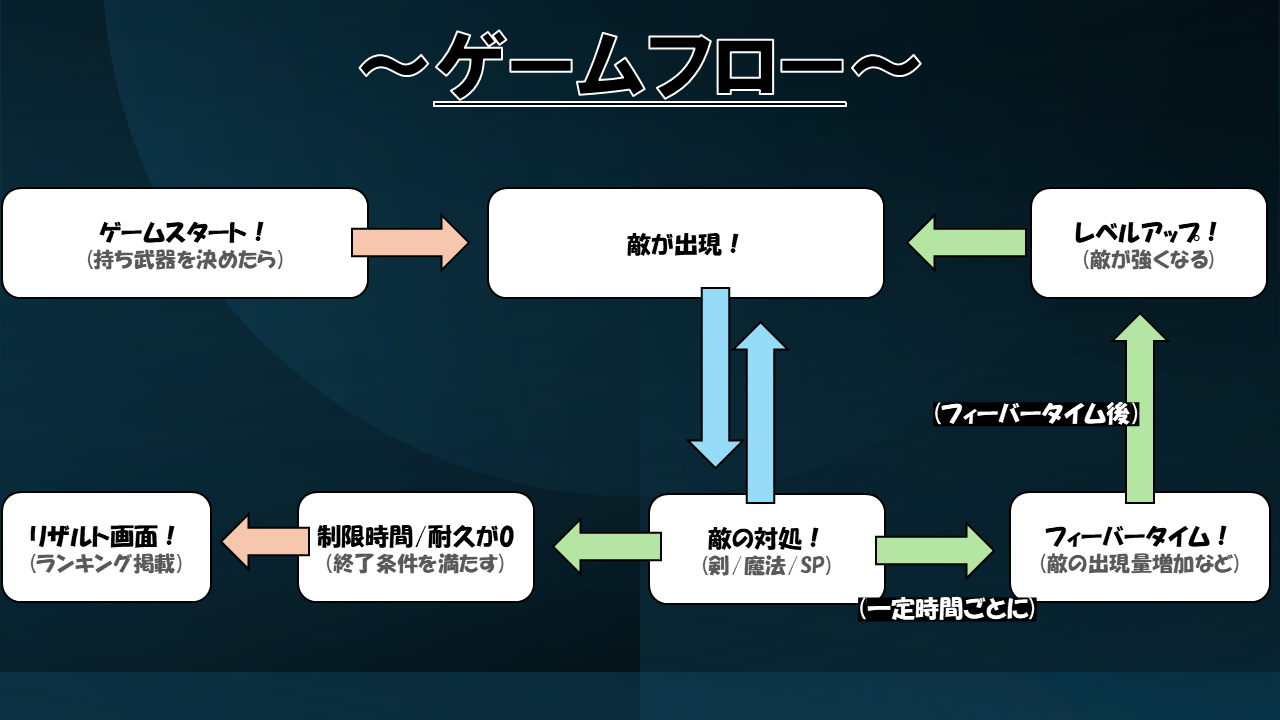
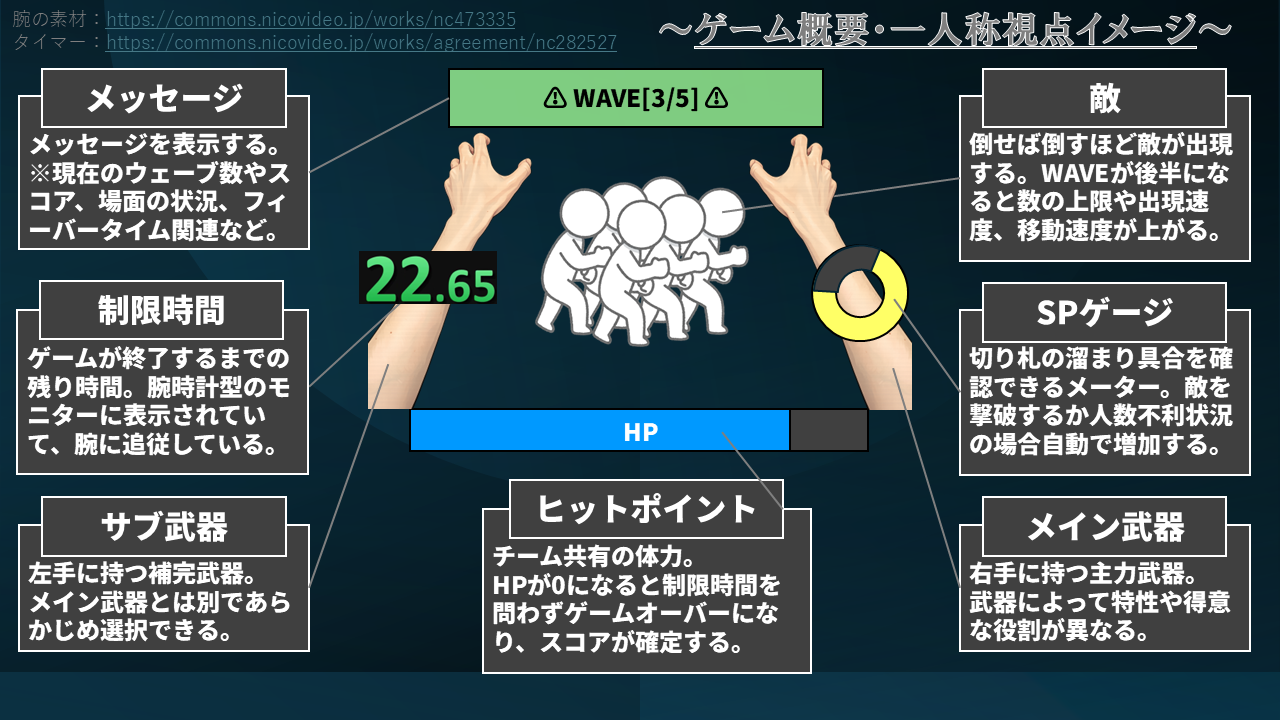
一部画像の変更など

diff --git a/works.html b/works.html
@@ -94,7 +94,7 @@
         <sub>
           <section class="comment">
             <div>
-              <h2>本格的なチーム制作 ※2026/06/10現在進行中</h2>
+              <h2>本格的なチーム制作 ※2026/07/09現在進行中</h2>
               <p>
                 企画の立案からサーバーサイドにデバッグまで、11人のメンバーで全ての工程をこなします。「広大な遊園地の中に、世界観の異なる"ミニゲームのアトラクション"がある」という設定のカジュアルVRゲームです。※画像は開発初期の構想段階のものです。
               </p>
@@ -184,7 +184,7 @@
             <div>
               <h2>合成音声実況チャンネル</h2>
               <p>
-                YouTube活動専用アカウントを作成し、複数のソフトや機材を活用しながら、趣味でゲーム実況動画を投稿しています。動画編集ソフトはAviUtl2を使用しており、音声エフェクト/カメラ移動/3D演出等を、このソフト1つで制作できます。
+                YouTube活動専用アカウントを作成し、複数のソフトや機材を活用しながら、趣味でゲーム実況動画を投稿しています。動画編集ソフトはAviUtl2を使用しており、音声エフェクト/カメラ移動/3D等の演出が、このソフト1つで完結しています。
               </p>
 
               ♪不老不死／Losstime Life
@@ -238,9 +238,9 @@
 
       <div class="work-item 3Dmodel">
         <work>
-          <section class="maincontent-type2">
+          <section class="maincontent-type1">
             <div>
-              <h1>Minecraft_戦車</h1>
+              <h1>Minecraft_3D</h1>
               <p>３Ⅾ制作(Blender等)</p>
             </div>
           </section>
@@ -248,13 +248,20 @@
           <section class="sidebar">
             <div>
               <video
-                src="Media/151_Tank-Video.mp4"
+                src="Media/151_Minecraft-Video.mp4"
                 loop
                 controls
                 autoplay
                 muted
                 playsinline
               ></video>
+            </div>
+          </section>
+          <section class="sidebar">
+            <div>
+              <figure class="image">
+                <img src="Media/152_Minecraft-Image.png" alt="" />
+              </figure>
             </div>
           </section>
         </work>
@@ -265,6 +272,7 @@
               <h2>3Dアニメーション初の試み</h2>
               <p>
                 世界的に知名度の高いゲーム「Minecraft-JavaEdition」内で制作した機能付きの戦車を、動画配信サイトを参考に複数のソフトを駆使しながらBlenderに生成し、アニメーションを加えたものです。
+                現在は、Minecraft内で戦闘艦の製作が進行中です。
               </p>
             </div>
           </section>
@@ -276,7 +284,7 @@
           <section class="maincontent-type1">
             <div>
               <h1>三界(ThreeKai)</h1>
-              <p>ゲーム制作(Unity)</p>
+              <p>ゲーム制作(Unity/仕様書)</p>
             </div>
           </section>
 
@@ -306,7 +314,7 @@
             <div>
               <h2>初のUnity作品</h2>
               <p>
-                ステージクリア型のスコアアタックゲームです。ステージを進むごとに斬撃や魔法弾といった攻撃手段が増え、操作の自由度が増していきます。また主人公(猫)のアニメーションは、ソフトやツールを駆使してすべて自主制作したものです。
+                ステージクリア型のスコアアタックゲームです。ステージを進むごとに斬撃や魔法弾といった攻撃手段が増え、操作の自由度が増していきます。また主人公(猫)のアニメーションは、ソフトやツールを駆使してすべて自主制作したものです。右側の画像は、仕様書の一部です。
               </p>
               BGM:♪Lonely explorer／Tak_mfk 様　♪境界の守り人／zippy
               様　♪寂れた浜辺／禊-misogi- より
